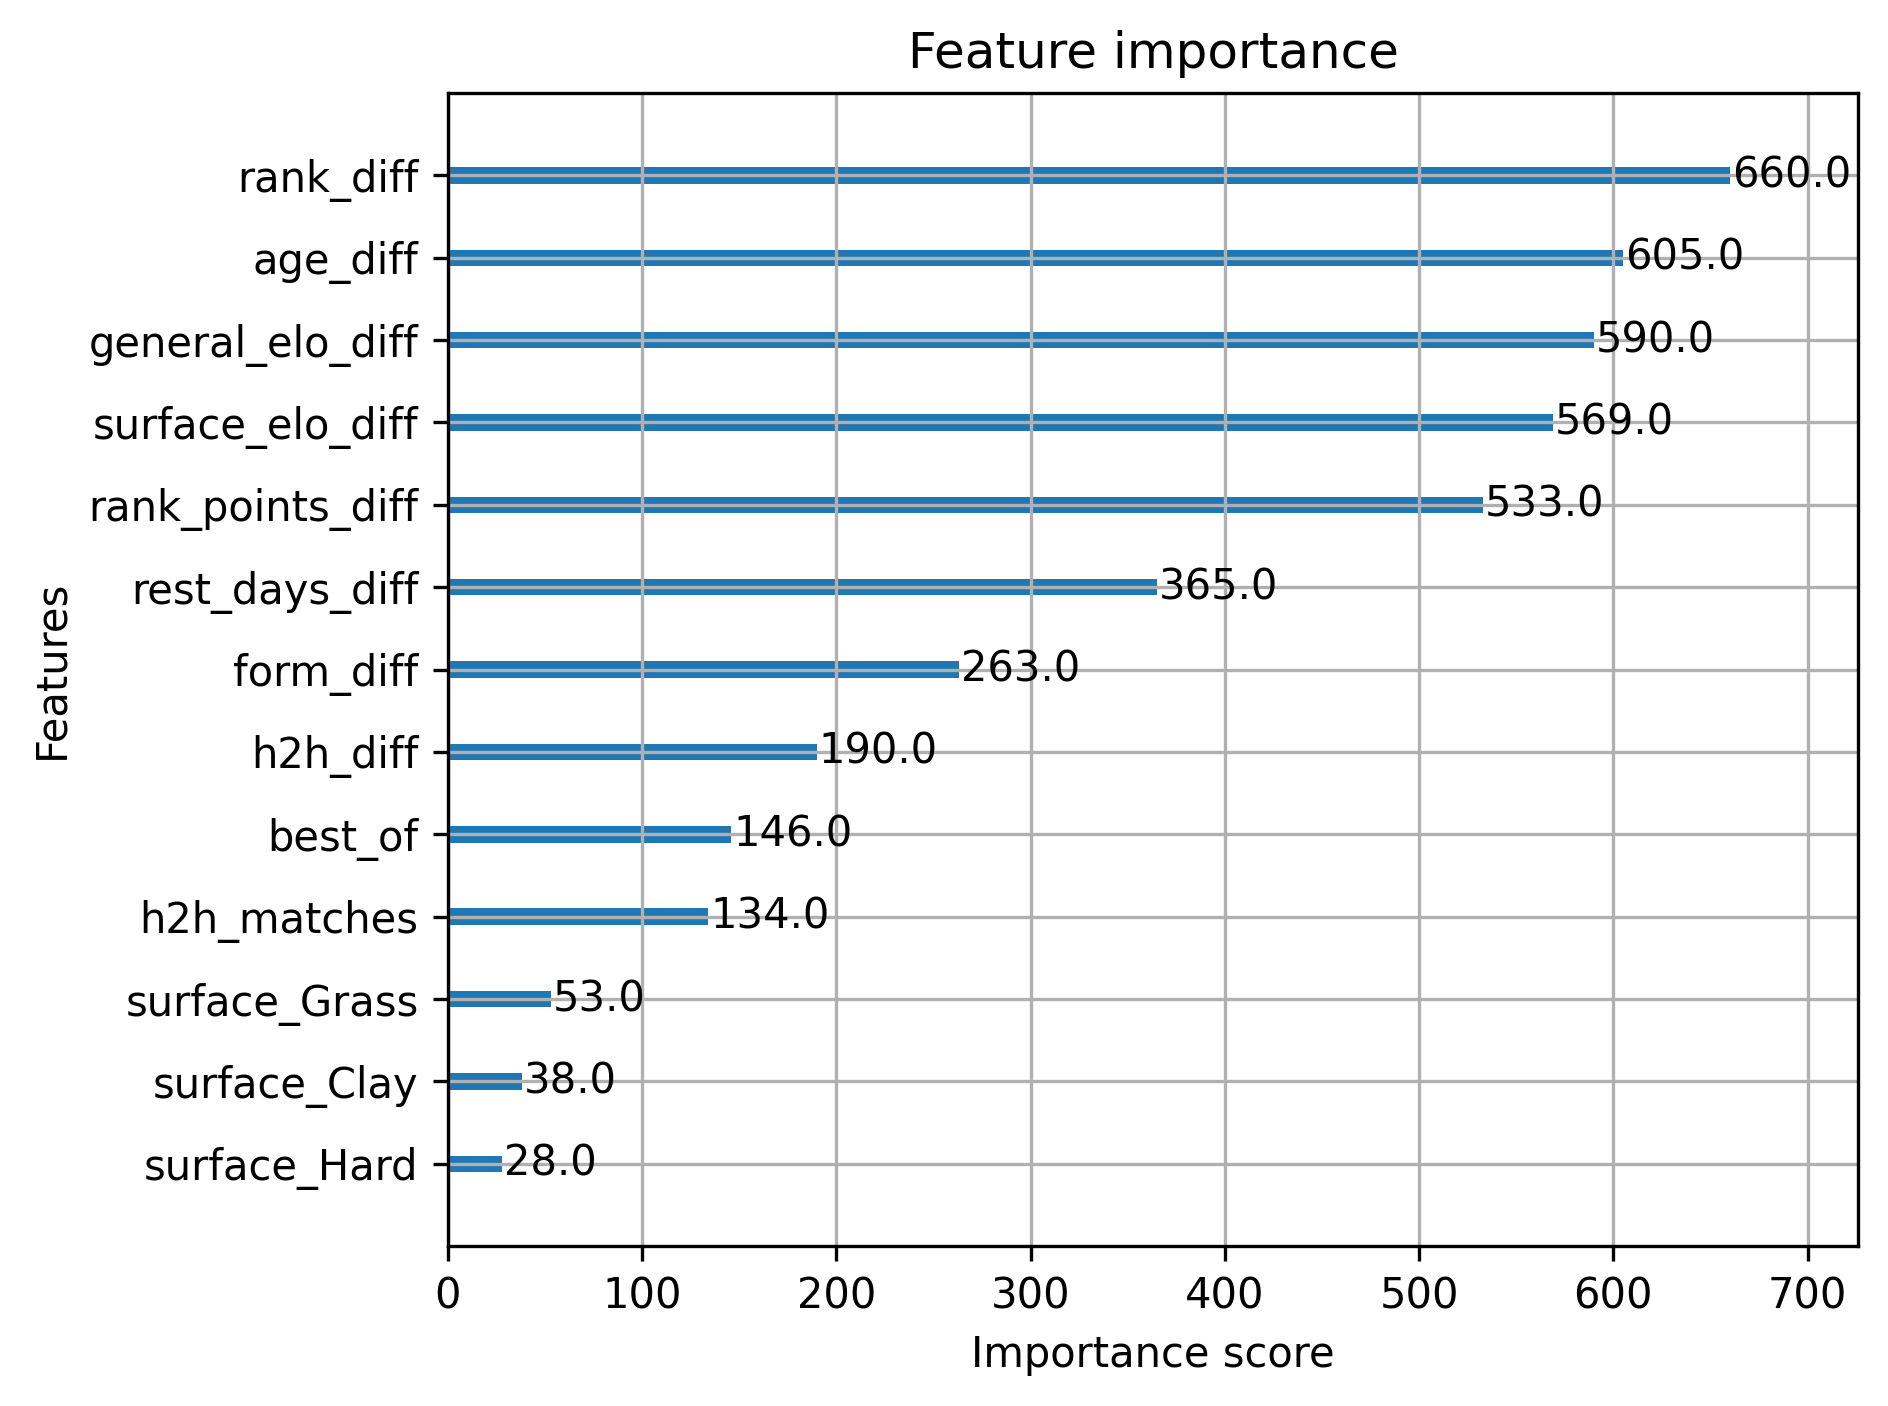
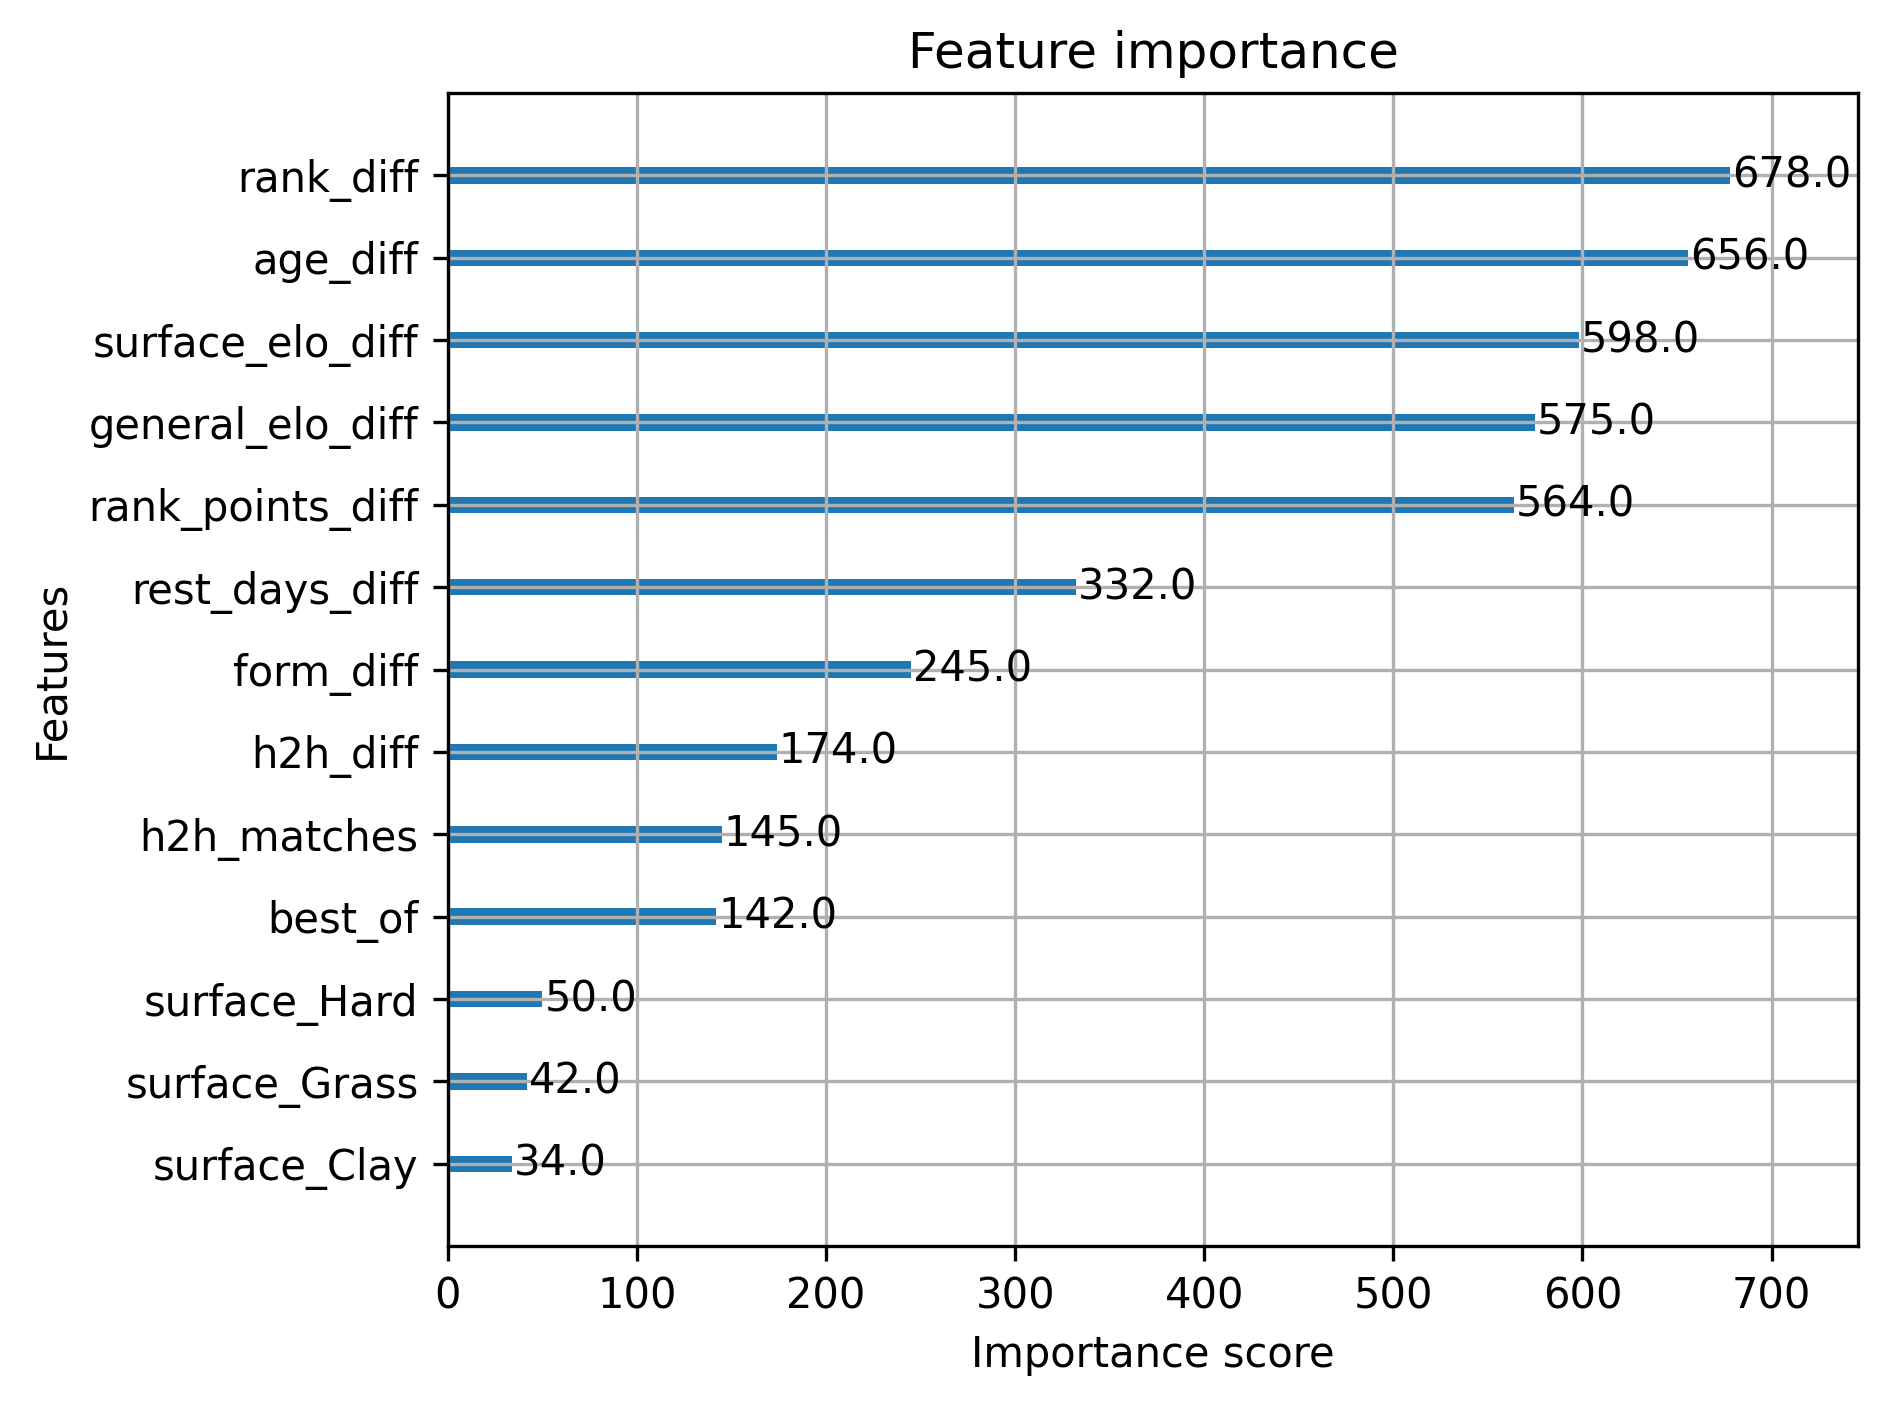
fixed feature importance plot bug

diff --git a/src/train_model.py b/src/train_model.py
@@ -1,7 +1,6 @@
 from xml.parsers.expat import model
-
+from pathlib import Path
 import pandas as pd
-
 from sklearn.model_selection import train_test_split
 from sklearn.preprocessing import StandardScaler
 import sklearn.metrics as metrics
@@ -81,9 +80,17 @@ def train_baseline_model(model_data):
     xgb.plot_importance(model)
     plt.tight_layout()
 
+    project_root = Path(__file__).resolve().parent.parent
+    plots_directory = project_root / "plots"
+    plots_directory.mkdir(parents=True, exist_ok=True)
+
+    output_path = plots_directory / "feature_importance.png"
+
     plt.savefig(
-        "../plots/feature_importance.png",
+        output_path,
         dpi=300,
-        bbox_inches="tight" 
+        bbox_inches="tight",
     )
-    return model
+
+    plt.close()
+    print(f"Feature importance saved to: {output_path}")
